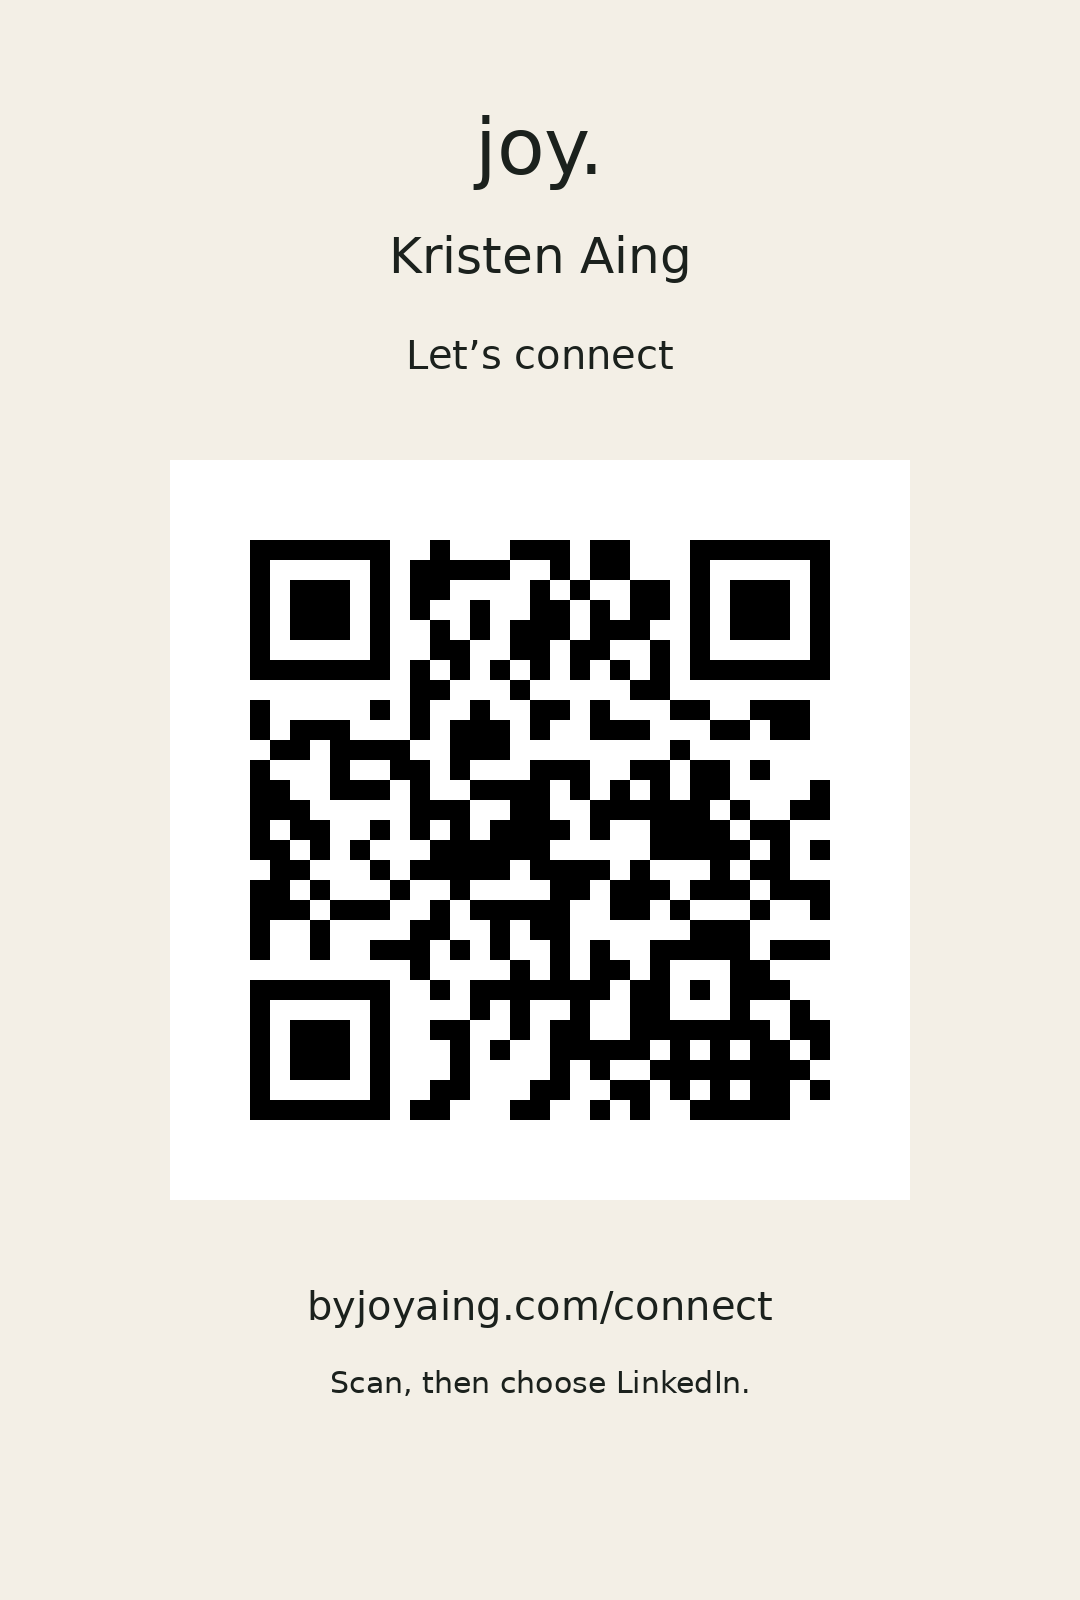
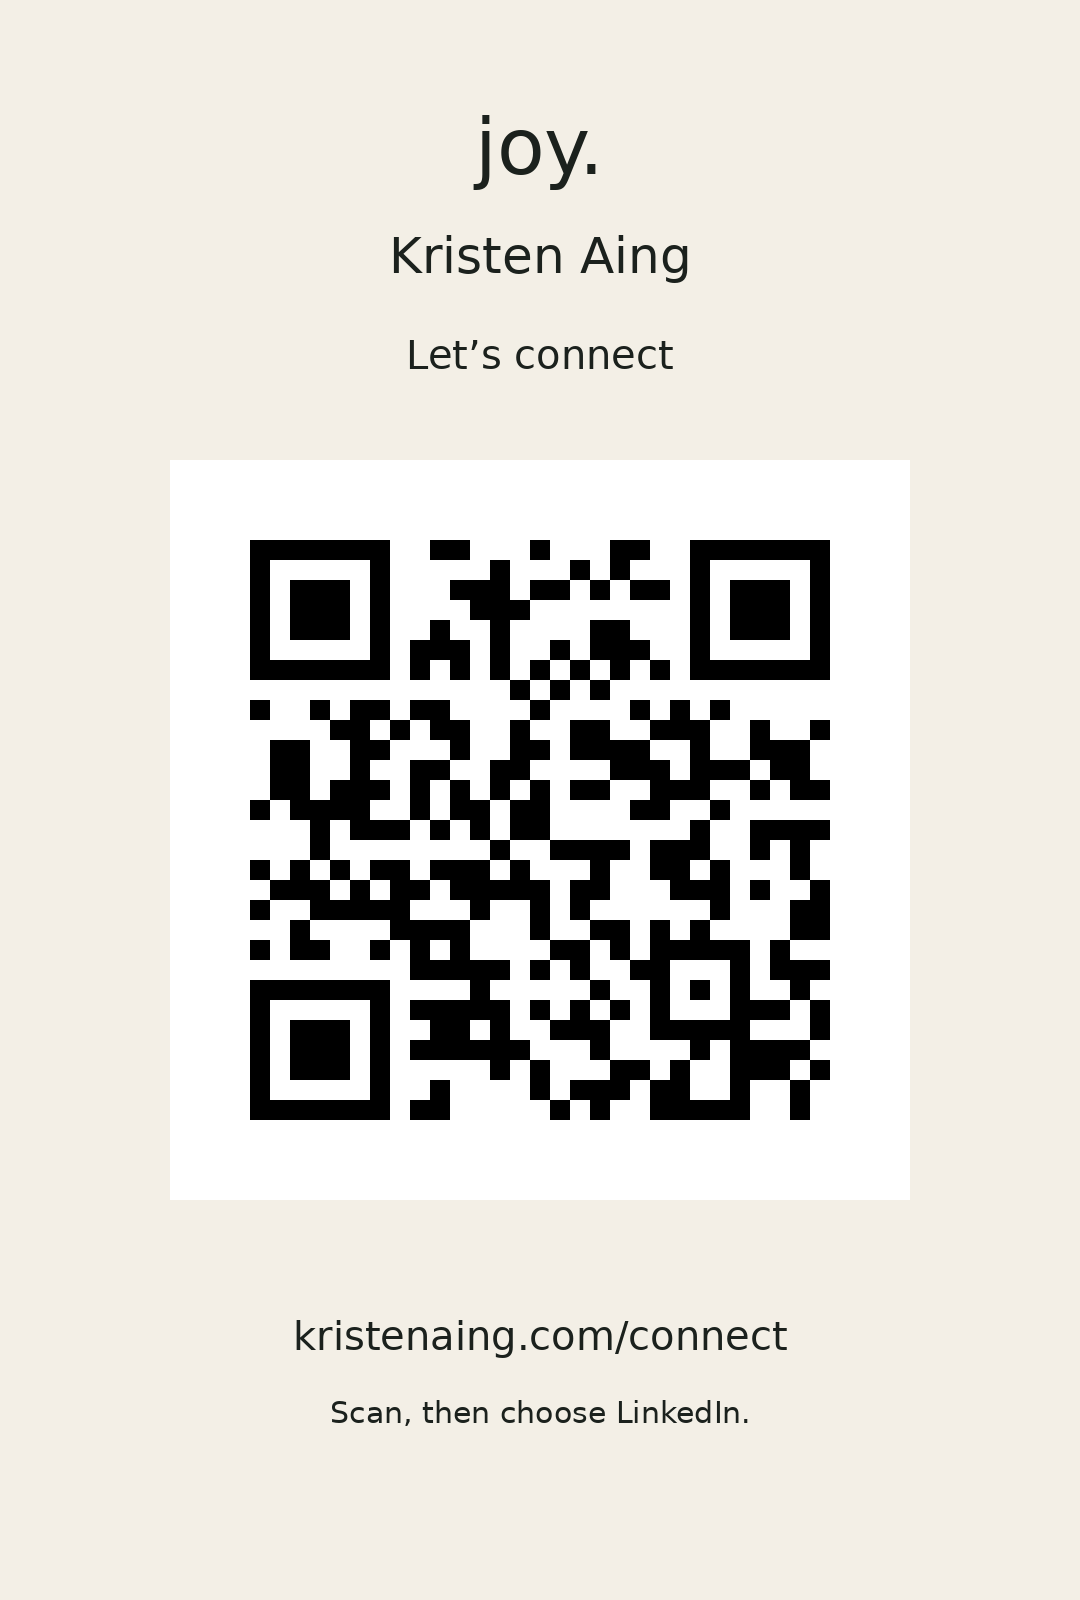
Use the Kristen Aing domain and bring sales evidence onto Work cards (#355)

Changed region(s): [[0.2139, 0.3125, 0.7944, 0.7188], [0.275, 0.8125, 0.7333, 0.9062]]

diff --git a/lib/posthog-browser.test.ts b/lib/posthog-browser.test.ts
@@ -52,7 +52,7 @@ test("monitoring and analytics have independent explicit gates", () => {
 test("pageviews retain only reviewed routes and discard nested and person data", () => {
   const result = sanitizePageview({
     ...event("$pageview", {
-      $current_url: "https://www.byjoyaing.com/work?token=secret#private",
+      $current_url: "https://www.kristenaing.com/work?token=secret#private",
       email: "secret",
       nested: { private: "secret" },
       $referrer: "secret",
@@ -60,14 +60,14 @@ test("pageviews retain only reviewed routes and discard nested and person data",
     $set: { name: "secret" },
   });
   assert.deepEqual(result?.properties, {
-    $current_url: "https://www.byjoyaing.com/work",
+    $current_url: "https://www.kristenaing.com/work",
     $pathname: "/work",
     $process_person_profile: false,
   });
   assert.equal(JSON.stringify(result).includes("secret"), false);
   for (const url of [
-    "https://www.byjoyaing.com/work/private-client",
-    "https://www.byjoyaing.com/design-lab",
+    "https://www.kristenaing.com/work/private-client",
+    "https://www.kristenaing.com/design-lab",
     "https://preview.vercel.app/work",
     "invalid",
   ]) {
@@ -104,7 +104,7 @@ test("all capability combinations preserve exception privacy and reject unapprov
       assert.equal(
         Boolean(
           filter(
-            event("$pageview", { $current_url: "https://byjoyaing.com/about" }),
+            event("$pageview", { $current_url: "https://kristenaing.com/about" }),
           ),
         ),
         analytics,
@@ -126,7 +126,7 @@ test("all capability combinations preserve exception privacy and reject unapprov
 test("connection page rejects pageviews and all browser events", () => {
   assert.equal(
     sanitizePageview(
-      event("$pageview", { $current_url: "https://www.byjoyaing.com/connect" }),
+      event("$pageview", { $current_url: "https://www.kristenaing.com/connect" }),
     ),
     null,
   );

diff --git a/components/work-explorer.tsx b/components/work-explorer.tsx
@@ -18,7 +18,7 @@ const categories = [
     title: "Enterprise Sales",
     eyebrow: "01 / Revenue execution",
     description:
-      "Connect the technical evaluation, business case and buying group.",
+      "I closed enterprise web-security deals at Forcepoint and led threat-intelligence opportunities at Rapid7.",
     tags: ["Discovery", "Alignment", "Execution"],
     Icon: Crosshair,
   },
@@ -26,7 +26,7 @@ const categories = [
     id: "people-leadership",
     title: "People & Leadership",
     eyebrow: "02 / People",
-    description: "Help teammates ramp, build confidence and share expertise.",
+    description: "I coached newer sellers at Truffle Security and built discovery guides the sales team adopted.",
     tags: ["Coaching", "Onboarding"],
     Icon: Users,
   },
@@ -34,7 +34,7 @@ const categories = [
     id: "gtm-strategy",
     title: "GTM Strategy",
     eyebrow: "03 / Systems",
-    description: "Turn competitive evidence into useful field guidance.",
+    description: "I wrote the threat-intelligence playbooks Rapid7’s portfolio team used in the field.",
     tags: ["Research", "Positioning"],
     Icon: Layers,
   },
@@ -111,7 +111,7 @@ export function WorkExplorer({ stories }: { stories: ReactNode[] }) {
                     ))}
                   </span>
                   <span className="mt-auto flex min-h-11 w-full items-center justify-between gap-3 pt-6 text-sm font-semibold">
-                    {active === id ? "Collapse story" : "Explore the evidence"}
+                    {active === id ? "Close story" : "Read story"}
                     <ChevronDown
                       aria-hidden="true"
                       className={`${styles.chevron} size-5 ${active === id ? "rotate-180" : ""}`}

diff --git a/lib/vercel-analytics.test.ts b/lib/vercel-analytics.test.ts
@@ -5,19 +5,19 @@ import { filterVercelPageview } from "./vercel-analytics.ts";
 test("vercel pageviews keep reviewed routes and strip queries and hashes", () => {
   const result = filterVercelPageview({
     type: "pageview",
-    url: "https://www.byjoyaing.com/work?token=secret#private",
+    url: "https://www.kristenaing.com/work?token=secret#private",
   });
   assert.deepEqual(result, {
     type: "pageview",
-    url: "https://www.byjoyaing.com/work",
+    url: "https://www.kristenaing.com/work",
   });
   assert.equal(JSON.stringify(result).includes("secret"), false);
   for (const url of [
-    "https://www.byjoyaing.com/work/private-client",
-    "https://www.byjoyaing.com/design-lab",
-    "https://www.byjoyaing.com/connect",
+    "https://www.kristenaing.com/work/private-client",
+    "https://www.kristenaing.com/design-lab",
+    "https://www.kristenaing.com/connect",
     "https://preview.vercel.app/work",
-    "http://www.byjoyaing.com/work",
+    "http://www.kristenaing.com/work",
     "invalid",
   ]) {
     assert.equal(filterVercelPageview({ type: "pageview", url }), null);
@@ -25,7 +25,7 @@ test("vercel pageviews keep reviewed routes and strip queries and hashes", () =>
   assert.equal(
     filterVercelPageview({
       type: "event",
-      url: "https://www.byjoyaing.com/contact",
+      url: "https://www.kristenaing.com/contact",
     }),
     null,
   );

diff --git a/app/layout.tsx b/app/layout.tsx
@@ -1,3 +1,4 @@
+import { publicSiteOrigin } from "@/lib/site-origin";
 import { Mark } from "@/components/mark";
 import { VercelAnalytics } from "@/components/vercel-analytics";
 import { EmailLink } from "@/components/email-link";
@@ -21,7 +22,7 @@ const geistMono = Geist_Mono({
 });
 
 export const metadata: Metadata = {
-  metadataBase: new URL("https://www.byjoyaing.com"),
+  metadataBase: new URL(publicSiteOrigin),
   title: {
     default: "Kristen Aing | Cybersecurity Sales & GTM Leadership",
     template: "%s — Kristen Aing",
@@ -45,7 +46,7 @@ const publicIdentity = {
   "@context": "https://schema.org",
   "@type": "Person",
   name: "Kristen Aing",
-  url: "https://www.byjoyaing.com/",
+  url: `${publicSiteOrigin}/`,
   description:
     "Enterprise cybersecurity seller, revenue and GTM leader, and independent builder.",
   knowsAbout: [

diff --git a/app/work/page.tsx b/app/work/page.tsx
@@ -44,14 +44,9 @@ export default function WorkPage() {
         aria-labelledby="featured-work-heading"
         className="border-b border-border py-12 sm:py-16"
       >
-        <p className="orbital-section-label editorial-eyebrow text-accent">Selected work / Explore</p>
         <h2 id="featured-work-heading" className="mt-2 font-display text-3xl">
-          Explore professional evidence
+          Selected work
         </h2>
-        <p className="mt-3 max-w-2xl text-sm leading-7 text-muted">
-          Three ways into the work. Open a card to explore the story,
-          contribution and evidence—or collapse it to keep browsing.
-        </p>
         <WorkExplorer
           stories={publicStories.map((story) => (
             <ProfessionalCaseStudy

diff --git a/app/sitemap.ts b/app/sitemap.ts
@@ -1,9 +1,8 @@
+import { publicSiteOrigin } from "@/lib/site-origin";
 import { capabilityViews } from "@/lib/capabilities";
 import { indexableStaticPaths } from "@/lib/indexing";
 import { projects } from "@/lib/portfolio";
 import type { MetadataRoute } from "next";
-
-const base = "https://www.byjoyaing.com";
 
 export default function sitemap(): MetadataRoute.Sitemap {
   const paths = [
@@ -12,6 +11,6 @@ export default function sitemap(): MetadataRoute.Sitemap {
     ...projects.map((project) => `/work/${project.slug}`),
   ];
   return paths.map((path) => ({
-    url: path === "/" ? base : `${base}${path}`,
+    url: new URL(path, publicSiteOrigin).href,
   }));
 }

diff --git a/components/connection-card.tsx b/components/connection-card.tsx
@@ -136,14 +136,14 @@ export function ConnectionCard({
             </p>
             <Image
               src={qrPath}
-              alt={`QR code linking to byjoyaing.com${path}`}
+              alt={`QR code linking to kristenaing.com${path}`}
               width={740}
               height={740}
               unoptimized
               className="h-auto w-full max-w-72 bg-white"
             />
             <p className="text-sm break-all text-muted">
-              {`byjoyaing.com${path}`}
+              {`kristenaing.com${path}`}
             </p>
             <a
               href={qrPath}

diff --git a/playwright.site.config.ts b/playwright.site.config.ts
@@ -1,8 +1,9 @@
+import { publicSiteOrigin } from "./lib/site-origin";
 import { defineConfig, devices } from "@playwright/test";
 
 // Remote runs are read-only browser journeys. No provider keys or bypass headers.
 const remote = process.env.SMOKE_BASE_URL;
-if (remote && !["https://www.byjoyaing.com", "https://byjoyaing.com"].includes(remote)) {
+if (remote && ![publicSiteOrigin, "https://kristenaing.com"].includes(remote)) {
   throw new Error("SMOKE_BASE_URL must be a public portfolio production origin.");
 }
 

diff --git a/app/page.tsx b/app/page.tsx
@@ -40,9 +40,9 @@ export default function Home() {
   const roleProofs = [
     {
       role: current,
-      label: "Current role",
+      label: "Developer security",
       detail:
-        "Built shared discovery, ICP, competitive, and POC resources the sales team adopted.",
+        "Built discovery and proof-of-concept guides the sales team adopted.",
       href: "/work#people-leadership",
       action: "Coaching and enablement",
     },

diff --git a/tests/site/portfolio.spec.ts b/tests/site/portfolio.spec.ts
@@ -61,7 +61,7 @@ for (const path of routes) {
       .getAttribute("href");
     expect(canonical).toBeTruthy();
     const canonicalUrl = new URL(canonical!);
-    expect(canonicalUrl.origin).toBe("https://www.byjoyaing.com");
+    expect(canonicalUrl.origin).toBe("https://www.kristenaing.com");
     expect(canonicalUrl.pathname).toBe(path);
     expect(canonicalUrl.search).toBe("");
     expect(canonicalUrl.hash).toBe("");

diff --git a/lib/analytics-routes.ts b/lib/analytics-routes.ts
@@ -1,7 +1,9 @@
+import { publicSiteOrigin } from "./site-origin.ts";
+
 /** Reviewed public landing pages. Extend only after route review. */
 export const reviewedPublicOrigins = new Set([
-  "https://byjoyaing.com",
-  "https://www.byjoyaing.com",
+  publicSiteOrigin,
+  "https://kristenaing.com",
 ]);
 
 export const reviewedPublicPaths = new Set([

diff --git a/app/robots.ts b/app/robots.ts
@@ -1,8 +1,9 @@
+import { publicSiteOrigin } from "@/lib/site-origin";
 import type { MetadataRoute } from "next";
 
 export default function robots(): MetadataRoute.Robots {
   return {
     rules: { userAgent: "*", allow: "/" },
-    sitemap: "https://www.byjoyaing.com/sitemap.xml",
+    sitemap: `${publicSiteOrigin}/sitemap.xml`,
   };
 }
